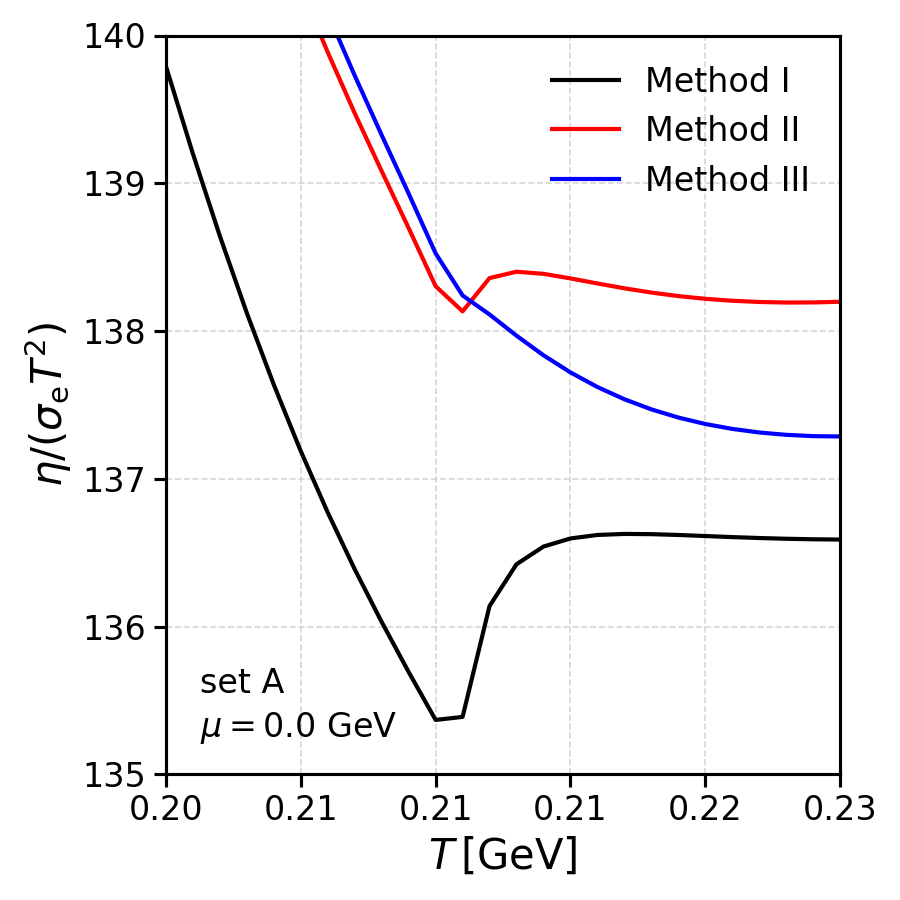
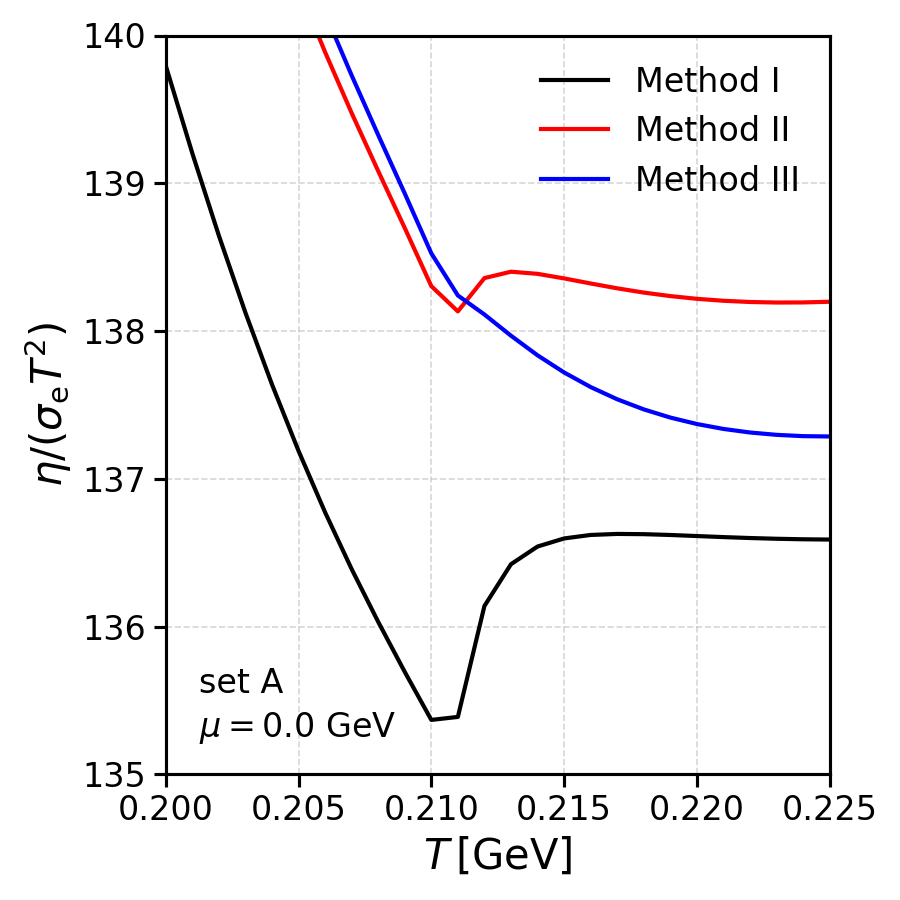
update transport coefficients plots script

diff --git a/calculations/su3_3d_cutoff_transport_coefficients/plotting/shear_visc_elec_conduct_ratios.py b/calculations/su3_3d_cutoff_transport_coefficients/plotting/shear_visc_elec_conduct_ratios.py
@@ -363,7 +363,7 @@ plot_eta_over_sigmae_temp2_vs_temp(
     ylim=(135, 140),
     x_num_ticks=6,
     y_num_ticks=6,
-    x_formatter="%.2f", 
+    x_formatter="%.3f", 
     y_formatter="%.0f",
     annotation_texts=[
         "set A",

diff --git a/calculations/su3_3d_cutoff_transport_coefficients/README.md b/calculations/su3_3d_cutoff_transport_coefficients/README.md
@@ -4,7 +4,7 @@
 
 This folder contains the necessary scripts, data files, and configuration files to evaluate transport coefficients within the context of the SU(3) NJL model for different values of temperature and chemical potential. Additionally, different NJL parameter sets are used, as well as, different methods to evaluate the integral over the differential cross sections, necessary quantities to evaluate the quark relaxation time which are then used to evaluate the different transport coefficients.
 
-Regarding the parameter sets, we consider sets both without (Set A) and with 8-quark interactions at the Lagrangian level (Sets B and C). The NJL parameter set A, is the usual Klevansky parameter set. The NJL parameters given in Sets B and C contain 8-quark interactions. In these sets the coupling $g_1$ was fixed manually and the remaining six free parameters were found by requiring the model to reproduce the masses of the pion ($M_{\pi^\pm} = 0.140 \,\mathrm{GeV}$), the kaon ($M_{K^\pm} = 0.494 \,\mathrm{GeV}$), the eta prime ($M_\eta'= 0.958 \,\mathrm{GeV}$) and $a_0^\pm$ ( $M_{a_0^\pm}= 0.960 \,\mathrm{GeV}$) mesons, the leptonic decays of the pion ($f_{\pi^\pm} = 0.0924 \,\mathrm{GeV}$) and kaon ($f_{K^\pm}=0.094 \,\mathrm{GeV}$). For further details, see [Renan Camara Pereira PhD thesis](https://estudogeral.uc.pt/handle/10316/95294).
+Regarding the parameter sets, we consider sets both without (Set A) and with 8-quark interactions at the Lagrangian level (Sets B and C). For more details about the different parameter sets, see [here](../su3_3d_cutoff_phase_diagram/README.md).
 
 Regarding the different methods to evaluate the integral over the differential cross sections, 4 values are allowed in the code:
 - `COMPLETE_OG`
@@ -16,7 +16,8 @@ More details about these different methods can be found [here](../su3_3d_cutoff_
 
 ### Transport Coefficients
 
-The following transport coefficients are being calculated here: shear viscosity.
+
+#### Shear Viscosity
 
 The formula being used to evaluate the shear viscosity is given by:
 $
@@ -88,7 +89,25 @@ In this section we present the results for some transport coefficients for diffe
 ### Shear Viscosity - Zero chemical potential
 
 <p align="center">
-  <img src="plots/shear_viscosity_vs_temp_CP0_setA.png" width="32%">
-  <img src="plots/shear_viscosity_ratio_vs_temp_CP0_setA.png" width="32%">
+  <img src="plots/eta_vs_temp_CP0_setA.png" width="32%">
+  <img src="plots/eta_over_s_vs_temp_CP0_setA.png" width="32%">
 </p>
 
+### Electrical Conductivity - Zero chemical potential
+
+<p align="center">
+  <img src="plots/sigmae_vs_temp_CP0_setA.png" width="32%">
+  <img src="plots/sigmae_over_temp_vs_temp_CP0_setA.png" width="32%">
+</p>
+
+### Shear Viscosity and Electrical Conductivity Ratios - Zero chemical potential
+
+<p align="center">
+  <img src="plots/eta_temp_over_sigmae_s_vs_temp_methods_CP0_setA.png" width="32%">
+  <img src="plots/eta_temp_over_sigmae_s_vs_temp_methods_CP0_setA_zoom.png" width="32%">
+</p>
+
+<p align="center">
+  <img src="plots/eta_over_sigmae_temp2_vs_temp_methods_CP0_setA.png" width="32%">
+  <img src="plots/eta_over_sigmae_temp2_vs_temp_methods_CP0_setA_zoom.png" width="32%">
+</p>
